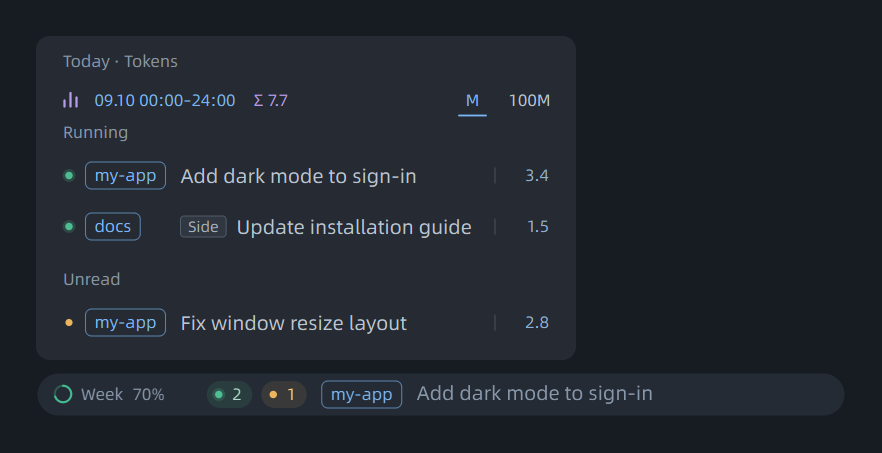
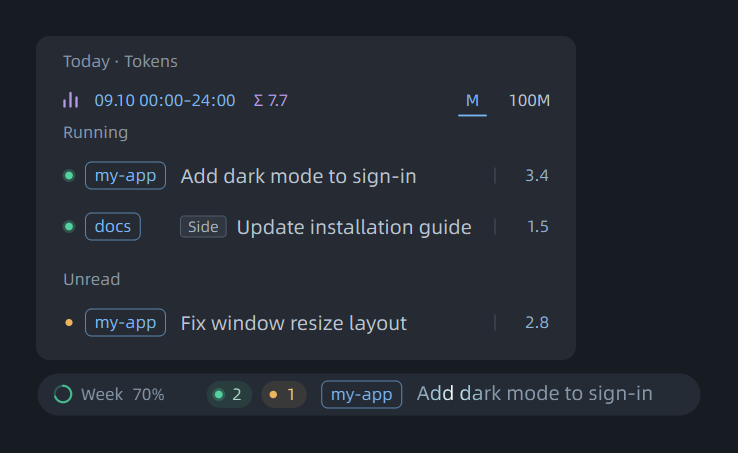
chore(release): prepare 0.5.0 task finding update
Bundle adaptive capsule sizing, local task search and source coverage. Update four-language documentation and current synthetic screenshots, fit the browser's initial content height and include the lazy UI module in packaged smoke checks.

Validation: 183 tests, read-only source probe, 5h preview, four-language/narrow-window rendering and README link checks passed. Installed-build validation precedes publication.

Spec: docs/specs/task-finding.md#verification

diff --git a/codex_taskbar/task_finder.py b/codex_taskbar/task_finder.py
@@ -122,7 +122,7 @@ class TaskFinder(QDialog):
         self.search.returnPressed.connect(self.open_selected)
         self.view.pressed.connect(self.remember_press);self.view.clicked.connect(self.open_clicked)
         self.refresh(bar.provider.get())
-        self.resize(740,min(490,max(300,len(self.rows)*40+100),self.screen().availableGeometry().height()-60))
+        self.resize(740,min(490,max(300,len(self.rows)*40+112),self.screen().availableGeometry().height()-60))
 
     def eventFilter(self,watched,event):
         if watched is self.search and event.type()==QEvent.Type.KeyPress and event.key()==Qt.Key.Key_Down and self.model.rowCount():

diff --git a/codex_taskbar/app.py b/codex_taskbar/app.py
@@ -1315,7 +1315,9 @@ class TaskListPopup(TaskPopup):
 
 
 def main():
-    if sys.argv[1:]==["--smoke-test"]:return
+    if sys.argv[1:]==["--smoke-test"]:
+        from .task_finder import TaskFinder
+        return
     if len(sys.argv)==4 and sys.argv[1]=='--install-update':
         install_after_exit(sys.argv[2],int(sys.argv[3]),RUNTIME);return
     ctypes.windll.kernel32.CreateMutexW.restype=ctypes.c_void_p

diff --git a/codex_taskbar/build_info.py b/codex_taskbar/build_info.py
@@ -1,4 +1,4 @@
-VERSION = "0.4.0"
+VERSION = "0.5.0"
 APP_NAME = "Codex Taskbar Companion"
 # Set to the public owner/repository before building a published installer.
 RELEASE_REPOSITORY = "dicksick22046/codex-taskbar-companion"

diff --git a/README.md b/README.md
@@ -43,12 +43,21 @@ Settings include English, Simplified Chinese, Japanese, and Spanish UI selection
 
 Capsule colors and background transparency are set manually in Settings. Choose Dark or Light; 0% transparency gives a solid background. Text and ring opacity are unaffected.
 
+The capsule fits its content up to the original maximum width. It reserves room for the longest rotating task, so switching tasks does not make it jump in size.
+
+Right-click and choose **Find task…** to search recorded tasks by title or project. Filter to one project, then click a result or use the arrow keys and Enter to return to it in Codex. This filter affects the search window only; quota and strip counts keep their existing scope.
+
+![Task search](docs/images/task-search.png)
+
+*Search window with sample tasks. Search runs locally and does not save your query.*
+
 ## About the numbers
 
 - Quota percentages come from the account. Tokens come from task logs on this computer. Token totals cannot be converted into an exact quota percentage or subscription cost.
 - Daily quota usage starts at the day's first available reading. Restarting preserves it. Earlier usage is not reconstructed; a reset during the day is handled as a separate interval.
 - The daily task list includes today's turns. Status panels show the current or latest turn's duration, including time waiting for tools.
 - Historical token totals cover locally recorded tasks. Other devices and temporary side chats without saved usage are excluded.
+- The task catalog includes recorded CLI, VS Code, app-server and CLI execution sources. Newly included records can increase local token totals. Runtime waiting/approval states from other Codex clients are not currently exposed by this tool.
 
 Reset history uses **Scheduled** for an observed natural rollover, **Manual** for a reset confirmed through this tool, and **Official** for other observed recoveries. Official is an inferred category, not a verified statement from OpenAI. Using a reset credit requires confirmation and consumes a real credit.
 

diff --git a/docs/i18n/README.es.md b/docs/i18n/README.es.md
@@ -43,6 +43,14 @@ En los ajustes puedes elegir inglés, chino simplificado, japonés o español, a
 
 En Ajustes puedes elegir manualmente el color oscuro o claro de la cápsula y la transparencia del fondo. Un 0% significa fondo opaco; el texto y los anillos no se atenúan.
 
+Haz clic derecho y elige **Buscar tarea…** para buscar tareas guardadas por título o proyecto. Filtra por proyecto y abre un resultado con un clic o con las flechas y Enter. La búsqueda es local y no guarda el texto introducido. El filtro solo afecta a esta ventana.
+
+La cápsula se ajusta al contenido hasta el ancho máximo anterior. Reserva espacio para la tarea más larga de la rotación, evitando cambios de tamaño entre tareas. El catálogo también incluye ejecuciones CLI guardadas; sus registros pueden aumentar los totales locales de tokens.
+
+![Búsqueda de tareas](../images/task-search.png)
+
+*Datos de ejemplo. La herramienta aún no muestra las solicitudes de entrada o aprobación en tiempo real de otros clientes de Codex.*
+
 ## Qué significan los datos
 
 - Los porcentajes de cuota proceden de la cuenta; los tokens, de los registros de tareas de este equipo. Los tokens no permiten calcular un porcentaje exacto de cuota ni el coste de la suscripción.

diff --git a/docs/roadmap.md b/docs/roadmap.md
@@ -11,11 +11,11 @@ Help people notice what their AI tasks need and return to the right task, with q
 
 See [the milestone contract](specs/windows-companion.md). Ship a cohesive, verified batch; small commits are not separate releases.
 
-## 2. Help users return to work
+## 2. Help users return to work — task finding in 0.5.0
 
-- Add task search and project focus based on the existing task catalog.
+- Task search and project filtering reuse the existing catalog; capsule width fits content without resizing on each rotation.
 - Investigate reliable waiting-for-input and approval evidence before adding an attention inbox or notifications.
-- Verify whether desktop, CLI and IDE tasks can be aggregated without duplicates or guesses about state.
+- Explicitly include recorded CLI, VS Code, app-server and execution sources, deduplicated by ID. Live input/approval visibility across clients still needs a verified source; see [the evidence boundary](specs/task-finding.md#waitingapproval-evidence-boundary).
 - Keep notifications optional and grouped. Measure missed actions and incorrect notifications with users.
 
 ## 3. Expand where there is evidence

diff --git a/docs/i18n/README.zh-CN.md b/docs/i18n/README.zh-CN.md
@@ -43,6 +43,14 @@
 
 胶囊配色和背景透明度可在设置中手动调整。深浅两套配色，0%透明度表示不透明背景；文字和圆环不会一起变淡。
 
+右键选择 **查找任务…**，可按任务名、项目名搜索，并筛选项目；点击结果或用方向键和回车返回 Codex 中的任务。筛选只作用于查找窗口，不改变底栏统计口径。搜索在本地完成，不保存搜索词。
+
+胶囊根据内容收窄，最长保持原来的宽度；按轮播队列中的最长任务预留空间，切换任务不会反复伸缩。目录也包含已记录的CLI执行任务，新纳入的记录可能使本机Token总量增加。
+
+![任务查找](../images/task-search.png)
+
+*图中使用演示数据。其他Codex客户端的实时等待输入／审批状态尚未接入。*
+
 ## 数据怎么算
 
 - 额度百分比来自账户，Token 来自本机任务日志。Token 总量不能准确换算为额度百分比或订阅费用。

diff --git a/docs/i18n/CHANGELOG.zh-CN.md b/docs/i18n/CHANGELOG.zh-CN.md
@@ -4,6 +4,14 @@
 
 ## Unreleased
 
+## 0.5.0
+
+- 胶囊按内容收窄，保留原有最大宽度；任务轮播不反复伸缩，悬浮时保持左侧位置。
+- 右键增加查找任务，可按名称、项目搜索和筛选，支持键盘选择及跳转。
+- 任务目录纳入已记录的CLI执行和app-server来源，按任务ID去重；新纳入的本机记录会进入既有用量统计。
+- 完整搜索目录仅放内存，不写诊断文件；未命名任务按当前语言显示。
+- 复用字体配置，减少绘制时的重复设置。
+
 ## 0.4.0
 
 - 新增可选悬浮胶囊，支持拖动、记住屏幕内位置和开关置顶。

diff --git a/CHANGELOG.md b/CHANGELOG.md
@@ -4,6 +4,8 @@
 
 ## Unreleased
 
+## 0.5.0
+
 - Add Find task to the context menu, with local title/project search, project filtering and keyboard navigation.
 - Include recorded Codex CLI execution and app-server sources in the existing catalog, deduplicated by task ID.
 - Keep the full search catalog in memory and localize untitled task labels.
